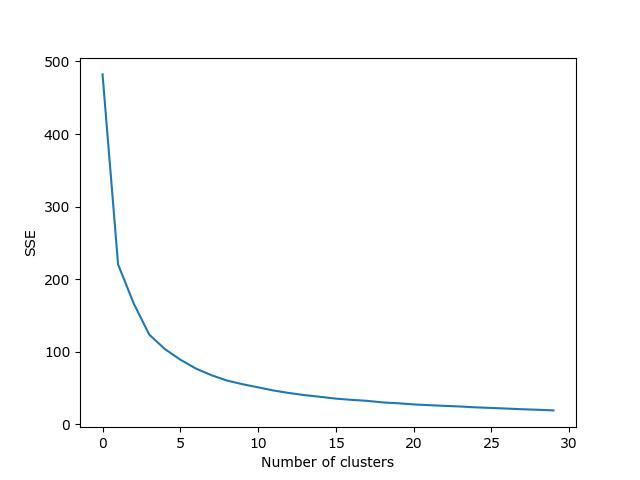
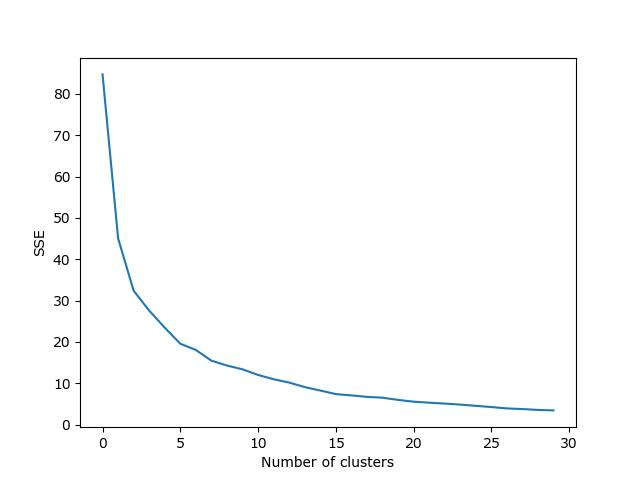
changed scaling algo

diff --git a/scripts/utils/recommendation_system.py b/scripts/utils/recommendation_system.py
@@ -1,8 +1,10 @@
+from pyexpat import features
 from typing import List
 from pandas import DataFrame
 from sklearn.cluster import KMeans, BisectingKMeans, SpectralClustering
 from sklearn.mixture import GaussianMixture
-from scripts.clusters.helpers import plot_elbow_test, get_clusters, combine_data,\
+from sklearn.metrics import silhouette_score
+from scripts.clusters.helpers import plot_elbow_test, get_clusters, devide_array,\
 get_clusters_count, get_sum_of_square_errors, cluster_predict, vectorize_data, show_clusters
 from scripts.clusters.kwargs import kmeans_kwargs, bisecting_kmeans_kwargs, \
     spectral_kwargs, gaussian_mixture_kwargs
@@ -17,6 +19,7 @@ class RecommendationSystem:
 
     def build_system(self, x_cols: list):
         features = self.__dataset[x_cols]
+        # features = vectorize_data(self.__dataset, x_cols)
         cluster_algo = KMeans
         kwargs = kmeans_kwargs
 
@@ -28,19 +31,22 @@ class RecommendationSystem:
 
         clusters = cluster_predict(features, self.__model)
         self.__dataset['Cluster_Prediction']=list(clusters)  
+
+        print(f'Silhouette Score: {silhouette_score(features, clusters)}')
         # self.show_clusters_info(sse, features)     
 
 
-    def recommend(self, elements: DataFrame, x_cols: list, count: int = 10) -> DataFrame:
-        prediction = self.__dataset.loc[self.__dataset['Rank'] == int(elements['Rank'])]['Cluster_Prediction']
+    def recommend(self, element: DataFrame, dataset: DataFrame, count: int = 10) -> DataFrame:
+        prediction = self.__dataset.loc[
+            self.__dataset['Rank'] == int(element['Rank'])]['Cluster_Prediction']
 
         recommendations = self.__dataset.loc[
-            self.__dataset['Rank'] != int(elements['Rank'])]
+            self.__dataset['Rank'] != int(element['Rank'])]
         recommendations = recommendations.loc[
             self.__dataset['Cluster_Prediction'] == int(prediction)]
         recommendations = recommendations.sample(count)
 
-        return DataFrame(recommendations)
+        return dataset[dataset['Rank'].isin(list(recommendations['Rank'].values))]
 
 
     def show_clusters_info(self, sse: list, features):

diff --git a/scripts/utils/dataset_scaler.py b/scripts/utils/dataset_scaler.py
@@ -23,10 +23,32 @@ class DatasetScaler:
 
 
     def __scale(self) -> None:
-        vectorized_data = self.__vectorize_data().tocoo().data
-        devided_data = self.__divide_array(vectorized_data, len(self.__columns))
-        for i in range(len(self.__columns)):
-            self.__dataset[self.__columns[i]]=devided_data[i]
+        self.__dictionary = dict()
+        for column in self.__columns:
+            self.__dictionary[column]=self.__get_column_dictionary(column)
+            self.__replace_data(column)
+        # vectorized_data = self.__vectorize_data().tocoo().data
+        # divided_data = self.__divide_array(vectorized_data, len(self.__columns))
+        # for i in range(len(self.__columns)):
+        #     self.__dataset[self.__columns[i]]=divided_data[i]
+
+
+    def __replace_data(self, column) -> None:
+        self.__dataset[column] = self.__dataset[column].replace(
+            self.__dictionary[column].keys(), 
+            self.__dictionary[column].values())
+
+    
+    def __get_column_dictionary(self, column: str) -> dict:
+        dictionary = dict()
+        for element in self.__dataset[column]:
+            if element not in dictionary:
+                dictionary[element] = 1
+            else:
+                dictionary[element] += 1
+        for key, val in dictionary.items():
+            dictionary[key] = val/len(self.__dataset)
+        return dictionary
 
 
     def __divide_array(self, array : list, n: int):

diff --git a/scripts/main.py b/scripts/main.py
@@ -41,10 +41,11 @@ cleanse_data(
 x_cols = ["Platform", "Genre", "Publisher"]
 dataset_scaler = DatasetScaler(dataset, x_cols)
 
+# recommendation = RecommendationSystem(dataset)
 recommendation = RecommendationSystem(dataset_scaler.scaled_dataset)
-recommendation.build_system(x_cols, dataset)
+recommendation.build_system(x_cols)
 
 test = dataset.iloc[[100]]
 print(test[["Name"]+x_cols], '\n')
-recommendations = recommendation.recommend(test, x_cols)
+recommendations = recommendation.recommend(test, dataset)
 print(str(recommendations[x_cols]))

diff --git a/scripts/clusters/helpers.py b/scripts/clusters/helpers.py
@@ -90,6 +90,6 @@ def show_clusters(features, cols: list, y_kmeans):
                 view=(60, 30), labels = cols)
     draw_subplot(fig, 132, features, y_kmeans, 
                 view=(0, 60), labels = cols)
-    draw_subplot(fig, 132, features, y_kmeans,
+    draw_subplot(fig, 133, features, y_kmeans,
                 view=(0, -80), labels = cols)
     plt.savefig(ASSET_PATH_CLUSTERSPLOT)
